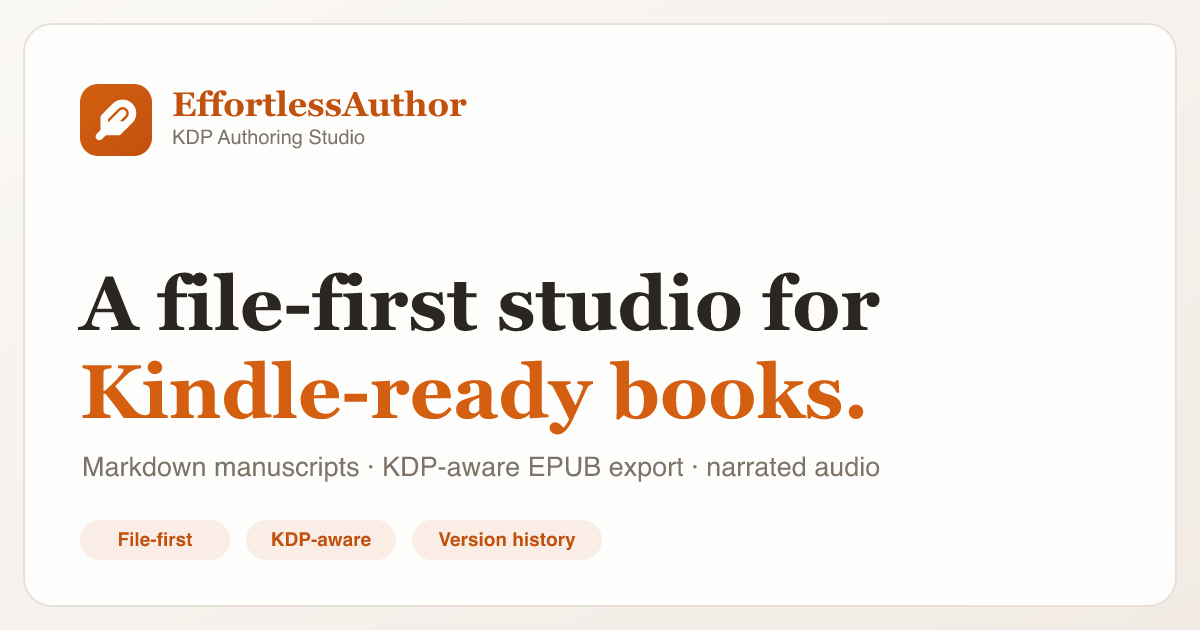
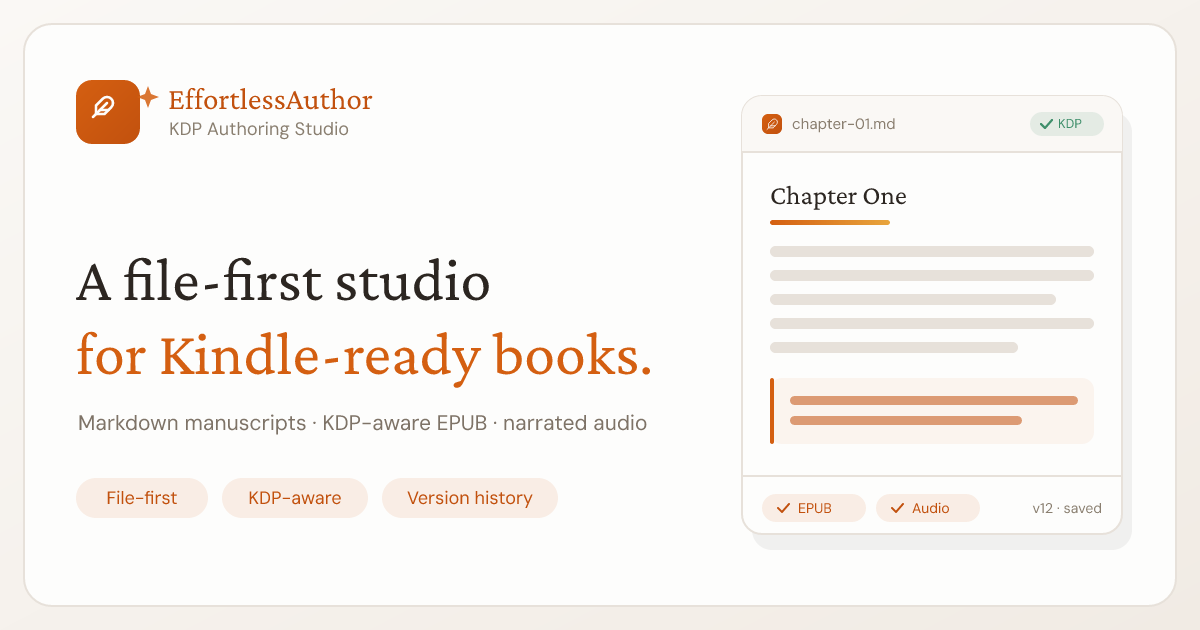
feat(seo): use env site origin and branded social cards

diff --git a/src/lib/site.ts b/src/lib/site.ts
@@ -1,0 +1,16 @@
+/**
+ * Resolve the configured site origin without hard-coding a domain anywhere.
+ *
+ * `site` is set in astro.config.mjs from the SITE_URL env var (falling back to
+ * localhost in dev), so `Astro.site` / `context.site` is always populated. This
+ * helper just narrows the `URL | undefined` type and fails loudly if the config
+ * was removed, rather than silently substituting a guessed production domain.
+ */
+export function requireSite(site: URL | undefined): URL {
+  if (!site) {
+    throw new Error(
+      "Astro `site` is not configured. Set SITE_URL (or `site` in astro.config.mjs) so canonical/OG/sitemap URLs resolve.",
+    );
+  }
+  return site;
+}

diff --git a/src/pages/rss.xml.ts b/src/pages/rss.xml.ts
@@ -1,6 +1,7 @@
 import rss from "@astrojs/rss";
 import { getCollection } from "astro:content";
 import type { APIContext } from "astro";
+import { requireSite } from "../lib/site";
 
 export async function GET(context: APIContext) {
   const updates = (await getCollection("updates")).sort(
@@ -9,7 +10,7 @@ export async function GET(context: APIContext) {
   return rss({
     title: "EffortlessAuthor — Updates",
     description: "Build-in-public updates from EffortlessAuthor, the file-first KDP authoring studio.",
-    site: context.site ?? "https://effortlessauthor.com",
+    site: requireSite(context.site),
     items: updates.map((u) => ({
       title: u.data.title,
       description: u.data.description,

diff --git a/docs/context/branding/README.md b/docs/context/branding/README.md
@@ -134,10 +134,19 @@ The marketing site is a multi-page Astro site that follows this guide. Key decis
 - **Markdown content:** policy pages and the documentation hub are editable Markdown in `src/content/legal/**` and `src/content/docs/**`, typed by `src/content.config.ts` (Astro content collections, glob loader). To add/edit a policy or doc, just drop/edit a Markdown file with the right frontmatter.
 - **Docs hub (`/resources`):** the Resources section is a full documentation experience rendered by `src/layouts/DocsLayout.astro` — a three-column layout (section sidebar · content · auto-generated "On this page" TOC with IntersectionObserver scrollspy), breadcrumbs, prev/next, and a mobile docs menu. Docs are one `docs` collection grouped into four sections via frontmatter `section` ("Getting Started", "Guides", "Explainers", "API Reference") and ordered with `order`; section order/icons live in `src/lib/docs.ts`. The hub index (`src/pages/resources/index.astro`) lists every section. Content is grounded in the real app (components, lib, and the local HTTP API routes under `app/src/app/api/**`); the API reference documents the app's **local, unauthenticated** API (not a hosted/public one).
 - **Identity & copy:** Uses the current app identity (EffortlessAuthor / KDP Authoring Studio). Public naming (EffortlessAuthor vs EasyEnochian) is left unresolved with a footer disclaimer and an About-page note. Copy uses "KDP-aware"/"KDP-oriented" only, avoids guaranteed-approval/cloud-security/collaboration/pricing claims, frames audio as a render/review workflow, and uses a low-commitment early-access CTA. All book titles/metadata are fictional demo data.
-- **SEO & sharing:** canonical URLs, Open Graph/Twitter cards with a branded `og-default.png`
-  (generated by `scripts/gen-og.mjs`), JSON-LD (WebSite/Organization site-wide, SoftwareApplication
-  on home, TechArticle + breadcrumbs on docs), an auto sitemap (`@astrojs/sitemap`), and a dynamic
-  `robots.txt`. Absolute URLs come from `site` in `astro.config.mjs` (override with `SITE_URL`).
+- **SEO & sharing:** canonical URLs, Open Graph/Twitter cards (with `og:image:width/height/type/alt`,
+  `og:locale`, and `twitter:image:alt` — `imageAlt` is a `Base.astro` prop) backed by a branded
+  `og-default.png`, JSON-LD (WebSite/Organization site-wide, SoftwareApplication on home,
+  TechArticle + breadcrumbs on docs), an auto sitemap (`@astrojs/sitemap`), and a dynamic
+  `robots.txt`. Absolute URLs come from `site` in `astro.config.mjs`, which reads `SITE_URL` via
+  Vite `loadEnv` (set it in `.env` — see `.env.example` — or the deploy env). No public domain is
+  hard-coded; dev falls back to `http://localhost:4321` and a build warns when `SITE_URL` is unset.
+  Layouts/RSS resolve the origin through `src/lib/site.ts` (`requireSite`) instead of literals.
+  The OG image is generated by `scripts/gen-og.mjs` (1200×630): the real brand fonts (Crimson Pro +
+  DM Sans) are bundled under `scripts/fonts/` and embedded so the artifact renders identically on any
+  machine/CI without relying on host system fonts. It pairs the brand lockup + serif headline with a
+  recreated manuscript window (chapter heading, prose, KDP-pass pill, EPUB/Audio export chips) so the
+  share card leads with a product surface, per this guide. Re-run `node scripts/gen-og.mjs` after brand changes.
 - **Dark mode:** a nav toggle backed by the existing `.dark` theme tokens, with a no-flash inline
   init in `Base.astro` and `localStorage` persistence. Keep both light and dark token sets in sync
   with the app.

diff --git a/README.md b/README.md
@@ -38,7 +38,7 @@ preview first, then point it at that URL (e.g. `npm run audit http://localhost:4
 
 | Variable | Purpose |
 | :------- | :------ |
-| `SITE_URL` | Public base URL used for canonical tags, sitemap, RSS, and OG image URLs. Defaults to a placeholder — set it once the domain is chosen. |
+| `SITE_URL` | Public base URL used for canonical tags, sitemap, RSS, and OG image URLs. Set in `.env` (see `.env.example`) or the deploy env. No domain is hard-coded — dev falls back to `http://localhost:4321`, and a build warns if it's unset. |
 | `PUBLIC_PLAUSIBLE_DOMAIN` | When set, injects a [Plausible](https://plausible.io) analytics script for that domain. Unset = no analytics. |
 
 ### Production features